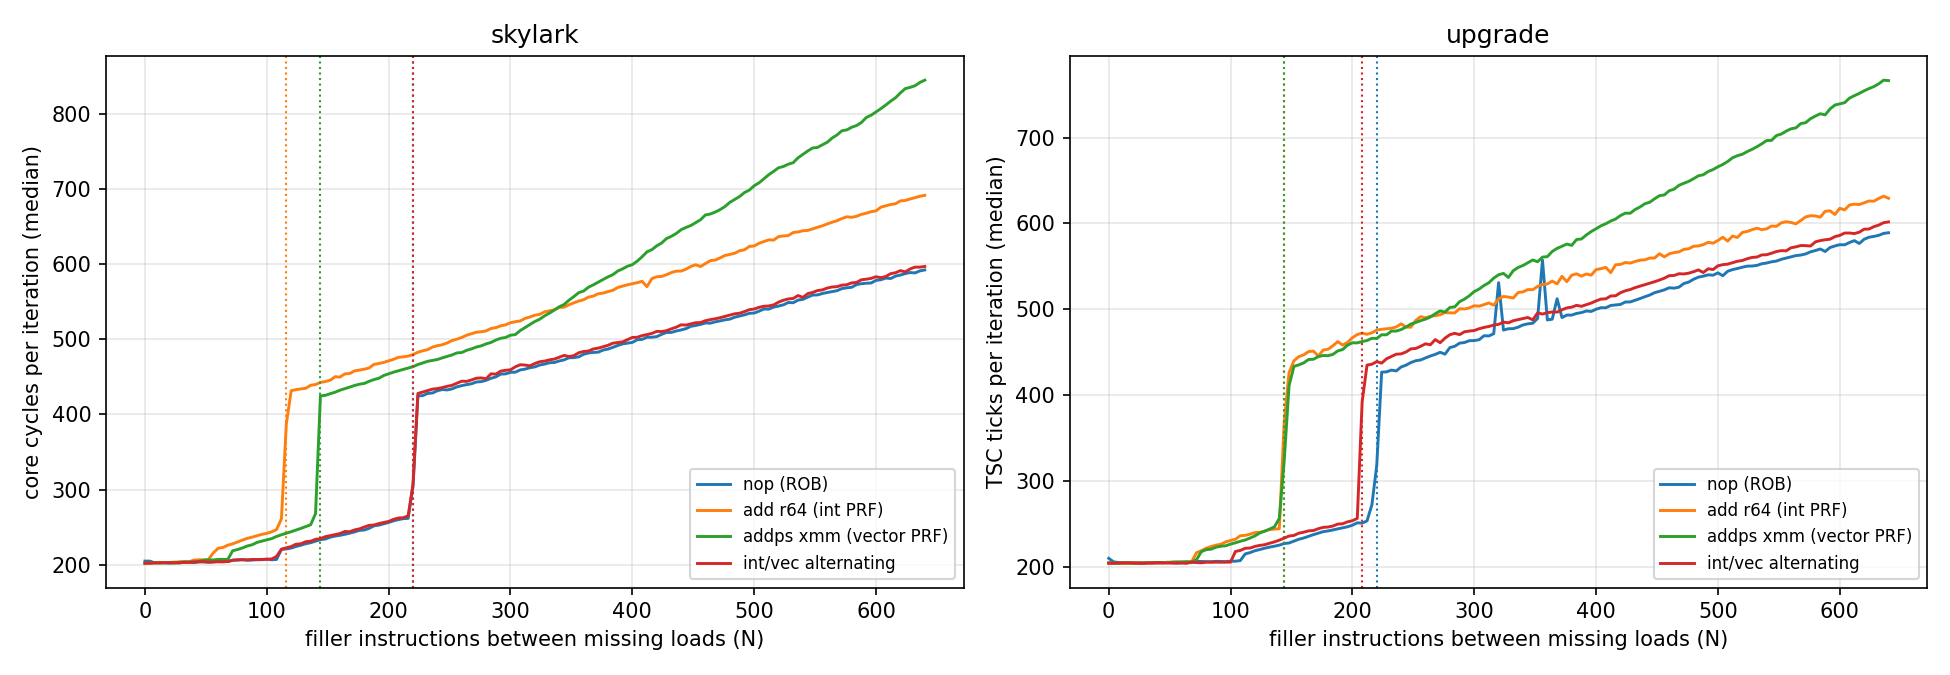
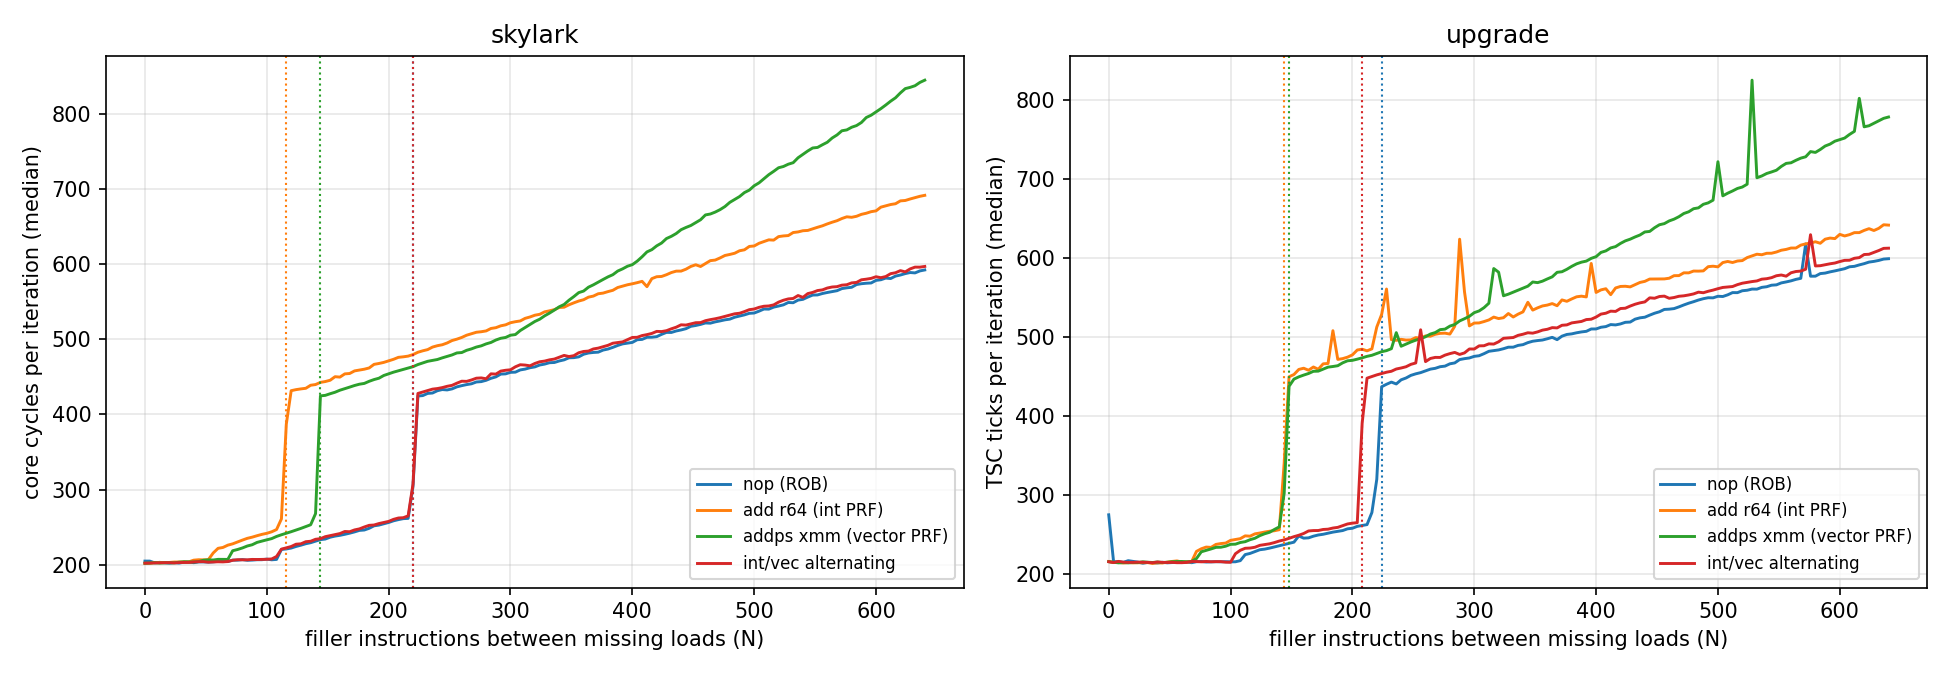
Fold in second upgrade run; plot the most complete TLB sweep
The Nov 2 upgrade run repeats every ROB/PRF step and every 4 KiB TLB
result. Its 2 MiB sweep verified only 1513 of 2048 huge pages (memory
fragmented), so it stops below the L2 TLB and is not a repeat of that
step. plot_tlb.py now plots the sweep reaching the most pages (newest on
ties) instead of the newest; run_all's refinement ranges still use the
newest run. README and report updated.

diff --git a/report/report.tex b/report/report.tex
@@ -194,12 +194,12 @@ repetitions per point. Data: \file{data/<host>/rob_prf/}.}
 \begin{tabular}{lcc|cc}
 \toprule
  & \multicolumn{2}{c|}{\textbf{Measured} step at $N$} & \multicolumn{2}{c}{\textbf{Published}} \\
-Filler & \up{} (2 runs) & \sk{} (3 runs) & Coffee Lake & Zen 2 \\
+Filler & \up{} (3 runs) & \sk{} (3 runs) & Coffee Lake & Zen 2 \\
 \midrule
-\texttt{nop} (ROB) & 220, 220 & 224, 220, 220 & 224 & 224 \\
-\texttt{add} (int PRF) & 148, 144 & 116, 116, 116 & 180 & 180 \\
-\texttt{addps} (vec PRF) & 148, 144 & 144, 144, 144 & 168 & 160 \\
-alternating & 208, 208 & 220, 220, 220 & --- & --- \\
+\texttt{nop} (ROB) & 220, 220, 224 & 224, 220, 220 & 224 & 224 \\
+\texttt{add} (int PRF) & 148, 144, 144 & 116, 116, 116 & 180 & 180 \\
+\texttt{addps} (vec PRF) & 148, 144, 148 & 144, 144, 144 & 168 & 160 \\
+alternating & 208, 208, 208 & 220, 220, 220 & --- & --- \\
 \bottomrule
 \end{tabular}
 \caption{Step positions. Sweep resolution is 4, so a step reported at $N$
@@ -349,15 +349,16 @@ access (bottom). Dotted lines mark the published Zen 2 capacities (64 and
  & \up{} (timing) & \sk{} (timing + counters) & \textbf{Published} \\
 \midrule
 TLB levels & 2 & 2 & 2 on both \\
-L1 DTLB, 4~KiB & 64: flat to 64, rises at 65 & 0 misses at 62 pages, misses from 63 & CL: 64; Zen 2: 64 \\
-L1 DTLB, 2~MiB & 32: flat to 32, rises at 33 & identical to 4~KiB (0 at 62, misses from 63) & CL: 32; Zen 2: 64 (shared) \\
-L2 TLB, 4~KiB & $\approx$1530 (ramp extrapolates to 1529) & no sharp edge: misses $>$1\% from $\approx$1024 pages, 50\% at 2435 & CL: 1536; Zen 2: 2048 \\
-L2 TLB, 2~MiB & $\approx$1530 (extrapolates to 1531) & misses $>$1\% from 1408--1576, 50\% at 2704 & CL: 1536 (shared); Zen 2: 2048 \\
+L1 DTLB, 4~KiB & 64: flat to 64, rises at 65 (both runs) & 0 misses at 62 pages, misses from 63 & CL: 64; Zen 2: 64 \\
+L1 DTLB, 2~MiB & 32: flat to 32, rises at 33 (both runs) & identical to 4~KiB (0 at 62, misses from 63) & CL: 32; Zen 2: 64 (shared) \\
+L2 TLB, 4~KiB & $\approx$1530 (extrapolates to 1529 and 1528) & no sharp edge: misses $>$1\% from $\approx$1024 pages, 50\% at 2435 & CL: 1536; Zen 2: 2048 \\
+L2 TLB, 2~MiB & $\approx$1530 (extrapolates to 1531; run 1 only) & misses $>$1\% from 1408--1576, 50\% at 2704 & CL: 1536 (shared); Zen 2: 2048 \\
 1~GiB pages & unavailable & unavailable & --- \\
 \bottomrule
 \end{tabularx}
-\caption{Q6 and Q9: TLB levels and sizes. \up{} from one sweep plus dense
-refinements around each step; \sk{} from five sweeps per page size plus
+\caption{Q6 and Q9: TLB levels and sizes. \up{} from two full runs, each
+a coarse sweep plus dense refinements around each step (the second run's
+2~MiB sweep is incomplete; see Repeatability); \sk{} from five sweeps per page size plus
 refinements, and counter runs on both NUMA nodes. Published: Intel
 optimization manual (Skylake client; CL = Coffee Lake), AMD Software
 Optimization Guide for Family 17h Models 30h+ (Zen 2).}
@@ -379,7 +380,7 @@ Added: L2 TLB miss (page walk) & +3.0 & +3.5 & 25 at 4096 pages, 30 at 16384 & 2
 \bottomrule
 \end{tabular}
 \caption{Q8: cost of TLB misses. \up{}: difference between plateau levels
-(TSC ticks converted at 3.19 GHz). \sk{}: L2-hit cost from
+(TSC ticks converted at 3.19 GHz); the second run gives +1.97 and +3.02~ns for 4~KiB. \sk{}: L2-hit cost from
 \texttt{private} $-$ \texttt{dense}; page-walk cost as $\Delta$cycles $/$
 $\Delta$(L2 misses per access) relative to 1024 pages, from the \texttt{alias}
 curve (4~KiB) and \texttt{private} $-$ \texttt{dense} (2~MiB). At the
@@ -454,7 +455,17 @@ Huge pages increase reach by $512\times$: on \up{} the L2 TLB covers about
 alone covers 256~KiB vs.\ 128~MiB. The cost of each kind of miss is
 about the same for both page sizes on both machines (Table~\ref{tab:q8}).
 
-\paragraph{Repeatability.} On \sk{}, five coarse sweeps per page size (on
+\paragraph{Repeatability.} On \up{}, a second full run (Nov.~2) repeats
+every ROB/PRF step within the sweep resolution of 4, and every 4~KiB TLB
+result (L1 at 64, L2 extrapolating to 1528 vs.\ 1529, miss costs within
+0.07~ns). Its 2~MiB sweep is not a valid repeat of the L2 step: memory was
+fragmented, only 1513 of 2048 requested huge pages could be verified, and
+the sweep stops below the L2 TLB. The verified pages also left gaps in the
+virtual address range, and their L2 misses begin early (from about 1218
+pages instead of about 1548), as expected if the L2 TLB set index comes
+from virtual-address bits. The 2~MiB L1 result (32) does repeat. Figure~\ref{fig:tlb}
+plots the most complete sweep for each page size.
+On \sk{}, five coarse sweeps per page size (on
 CPU~2 / NUMA node 0 and CPU~40 / node 1) agree within 0.5 cycles for the
 4~KiB \texttt{alias} curve at every checked point from 56 to 16384 pages,
 and within 1.6 cycles for 2~MiB at 4096 pages. 4~KiB \texttt{private} at

diff --git a/analysis/plot_tlb.py b/analysis/plot_tlb.py
@@ -1,7 +1,9 @@
 #!/usr/bin/env python3
 """Plot TLB sweeps for every machine under data/ and locate TLB levels.
 
-Uses the newest data/<host>/tlb/<size>_*.csv per host and page size.
+Plots the most complete data/<host>/tlb/<size>_*.csv per host and page size
+(largest page count, newest on ties), so a run cut short by too few
+verified huge pages does not replace a full one.
 Writes analysis/out/tlb.png (rows = hosts, columns = page sizes) and
 analysis/out/tlb_levels.csv.
 
@@ -100,6 +102,16 @@ def newest(hostdir, size):
     return files[-1] if files else None
 
 
+def most_complete(hostdir, size):
+    """Sweep reaching the most pages, newest on ties (for plotting only:
+    run_all's refinement ranges must come from the run just made)."""
+    def reach(path):
+        with open(path) as f:
+            return max(int(r["pages"]) for r in csv.DictReader(f))
+    files = sorted((hostdir / "tlb").glob(f"{size}_*.csv"))
+    return max(files, key=lambda f: (reach(f), f.name)) if files else None
+
+
 def print_refine_ranges(host):
     """Print `size lo:hi:step` for a dense linear sweep around every step
     found in the newest coarse sweeps; scripts/run_all.sh feeds these back
@@ -166,7 +178,7 @@ def main():
     hosts = [h for h in sorted((ROOT / "data").iterdir())
              if (h / "tlb").is_dir()] if len(sys.argv) < 2 else \
             [ROOT / "data" / h for h in sys.argv[1:]]
-    grid = [(h, [newest(h, s) for s in SIZES]) for h in hosts]
+    grid = [(h, [most_complete(h, s) for s in SIZES]) for h in hosts]
     grid = [(h, fs) for h, fs in grid if any(fs)]
     if not grid:
         sys.exit("no TLB data found under data/*/tlb/")

diff --git a/README.md b/README.md
@@ -87,11 +87,11 @@ int and vec curves stepping well before the `nop` curve shows the register
 files, not the ROB, are the limit. The mixed curve stepping later than
 either one alone shows they are separate pools.
 
-Results on `upgrade` (two independent runs, median of 5 and 9 reps, TSC ticks):
+Results on `upgrade` (three independent runs, 2026-10-29 ×2 and 2026-11-02, median of 5–9 reps, TSC ticks; steps 220/220/224, 148/144/144, 148/144/148, 208/208/208):
 
 | Filler | Step at N | Published spec (Skylake family) |
 |---|---|---|
-| nop | ~220 | ROB 224 |
+| nop | ~220–224 | ROB 224 |
 | int | ~144–148 | 180 integer physical registers |
 | vec | ~144–148 | 168 vector physical registers |
 | mix | ~208 | — |
@@ -133,16 +133,24 @@ checked to be a real huge page before use; pages the kernel backs with
 4 KiB pages are discarded so page sizes never mix. `run_all.sh` does a
 coarse geometric sweep, then a dense linear sweep around each detected step.
 
-Results on `upgrade` (TSC 3.19 GHz):
+Results on `upgrade` (TSC 3.19 GHz; two full runs, 2026-10-29 and 2026-11-02):
 
 | Level | 4 KiB pages | 2 MiB pages | Published (Skylake family) |
 |---|---|---|---|
-| L1 DTLB entries (Q6) | **64** (flat to 64, rises at 65) | **32** (flat to 32, rises at 33) | 64 (4K), 32 (2M) |
-| L2 TLB / STLB entries (Q6) | **~1530** (ramp extrapolates to 1529) | **~1530** (extrapolates to 1531) | 1536, shared 4K/2M |
+| L1 DTLB entries (Q6) | **64** (flat to 64, rises at 65; both runs) | **32** (flat to 32, rises at 33; both runs) | 64 (4K), 32 (2M) |
+| L2 TLB / STLB entries (Q6) | **~1530** (extrapolates to 1529, then 1528) | **~1530** (extrapolates to 1531; run 1 only, see below) | 1536, shared 4K/2M |
 | Access cost, L1 TLB hit | 1.37 ns | 1.34 ns | — |
-| Added cost of an L1 TLB miss that hits the L2 TLB (Q8) | +2.0 ns | +2.0 ns | — |
-| Added cost of an L2 TLB miss, page walk with cached page tables (Q8) | +3.0 ns | +3.5 ns | — |
+| Added cost of an L1 TLB miss that hits the L2 TLB (Q8) | +2.0 ns (run 2: +1.97) | +2.0 ns | — |
+| Added cost of an L2 TLB miss, page walk with cached page tables (Q8) | +3.0 ns (run 2: +3.02) | +3.5 ns | — |
 | 1 GiB pages (Q9) | — | — | Unavailable: no 1 GiB hugetlbfs pool, needs root |
+
+Run 2 (2026-11-02) could verify only 1513 of 2048 requested 2 MiB pages
+(2583 fell back to 4 KiB and were discarded, memory was fragmented), so its
+2 MiB sweep stops below the L2 TLB and is not a repeat of that step. Its
+verified pages also have gaps in virtual address space, and its 2 MiB L2
+misses begin early (rising from ~1218 pages instead of ~1548), as expected
+if the L2 TLB set index comes from virtual-address bits. `plot_tlb.py`
+therefore plots the most complete sweep (run 1) for 2 MiB.
 
 Findings so far:
 - **Two TLB levels.** The same ~1536-entry L2 TLB holds both 4 KiB and 2 MiB

diff --git a/AI_LOG.md b/AI_LOG.md
@@ -11,3 +11,4 @@
 | 2026-11-02 | Claude (Claude Code) | Repeatability runs on `skylark` | Repeated the coarse TLB sweeps on CPU 2 and CPU 40 (both NUMA nodes) and the ROB/PRF sweep on CPU 40; compared all runs | |
 | 2026-11-02 | Claude (Claude Code) | Enclave feasibility on `skylark`; SEV checks in `scripts/machine_info.sh` | Probed SGX/SEV support (cpuinfo, CPUID 0x8000001F, device nodes, kernel log) and documented why no enclave comparison is possible on this machine | |
 | 2026-11-02 | Claude (Claude Code) | `report/report.tex`, `analysis/plot_tlb_pmu.py` | Drafted the LaTeX report from the README and data (published specs marked TODO verify); wrote the DTLB counter plot | |
+| 2026-11-02 | Claude (Claude Code) | Second `upgrade` run | Compared it with run 1; found its 2 MiB sweep truncated by THP fragmentation (1513 verified pages) and excluded it as a repeat of the 2 MiB L2 step; made `plot_tlb.py` plot the most complete sweep; updated README and report | |
